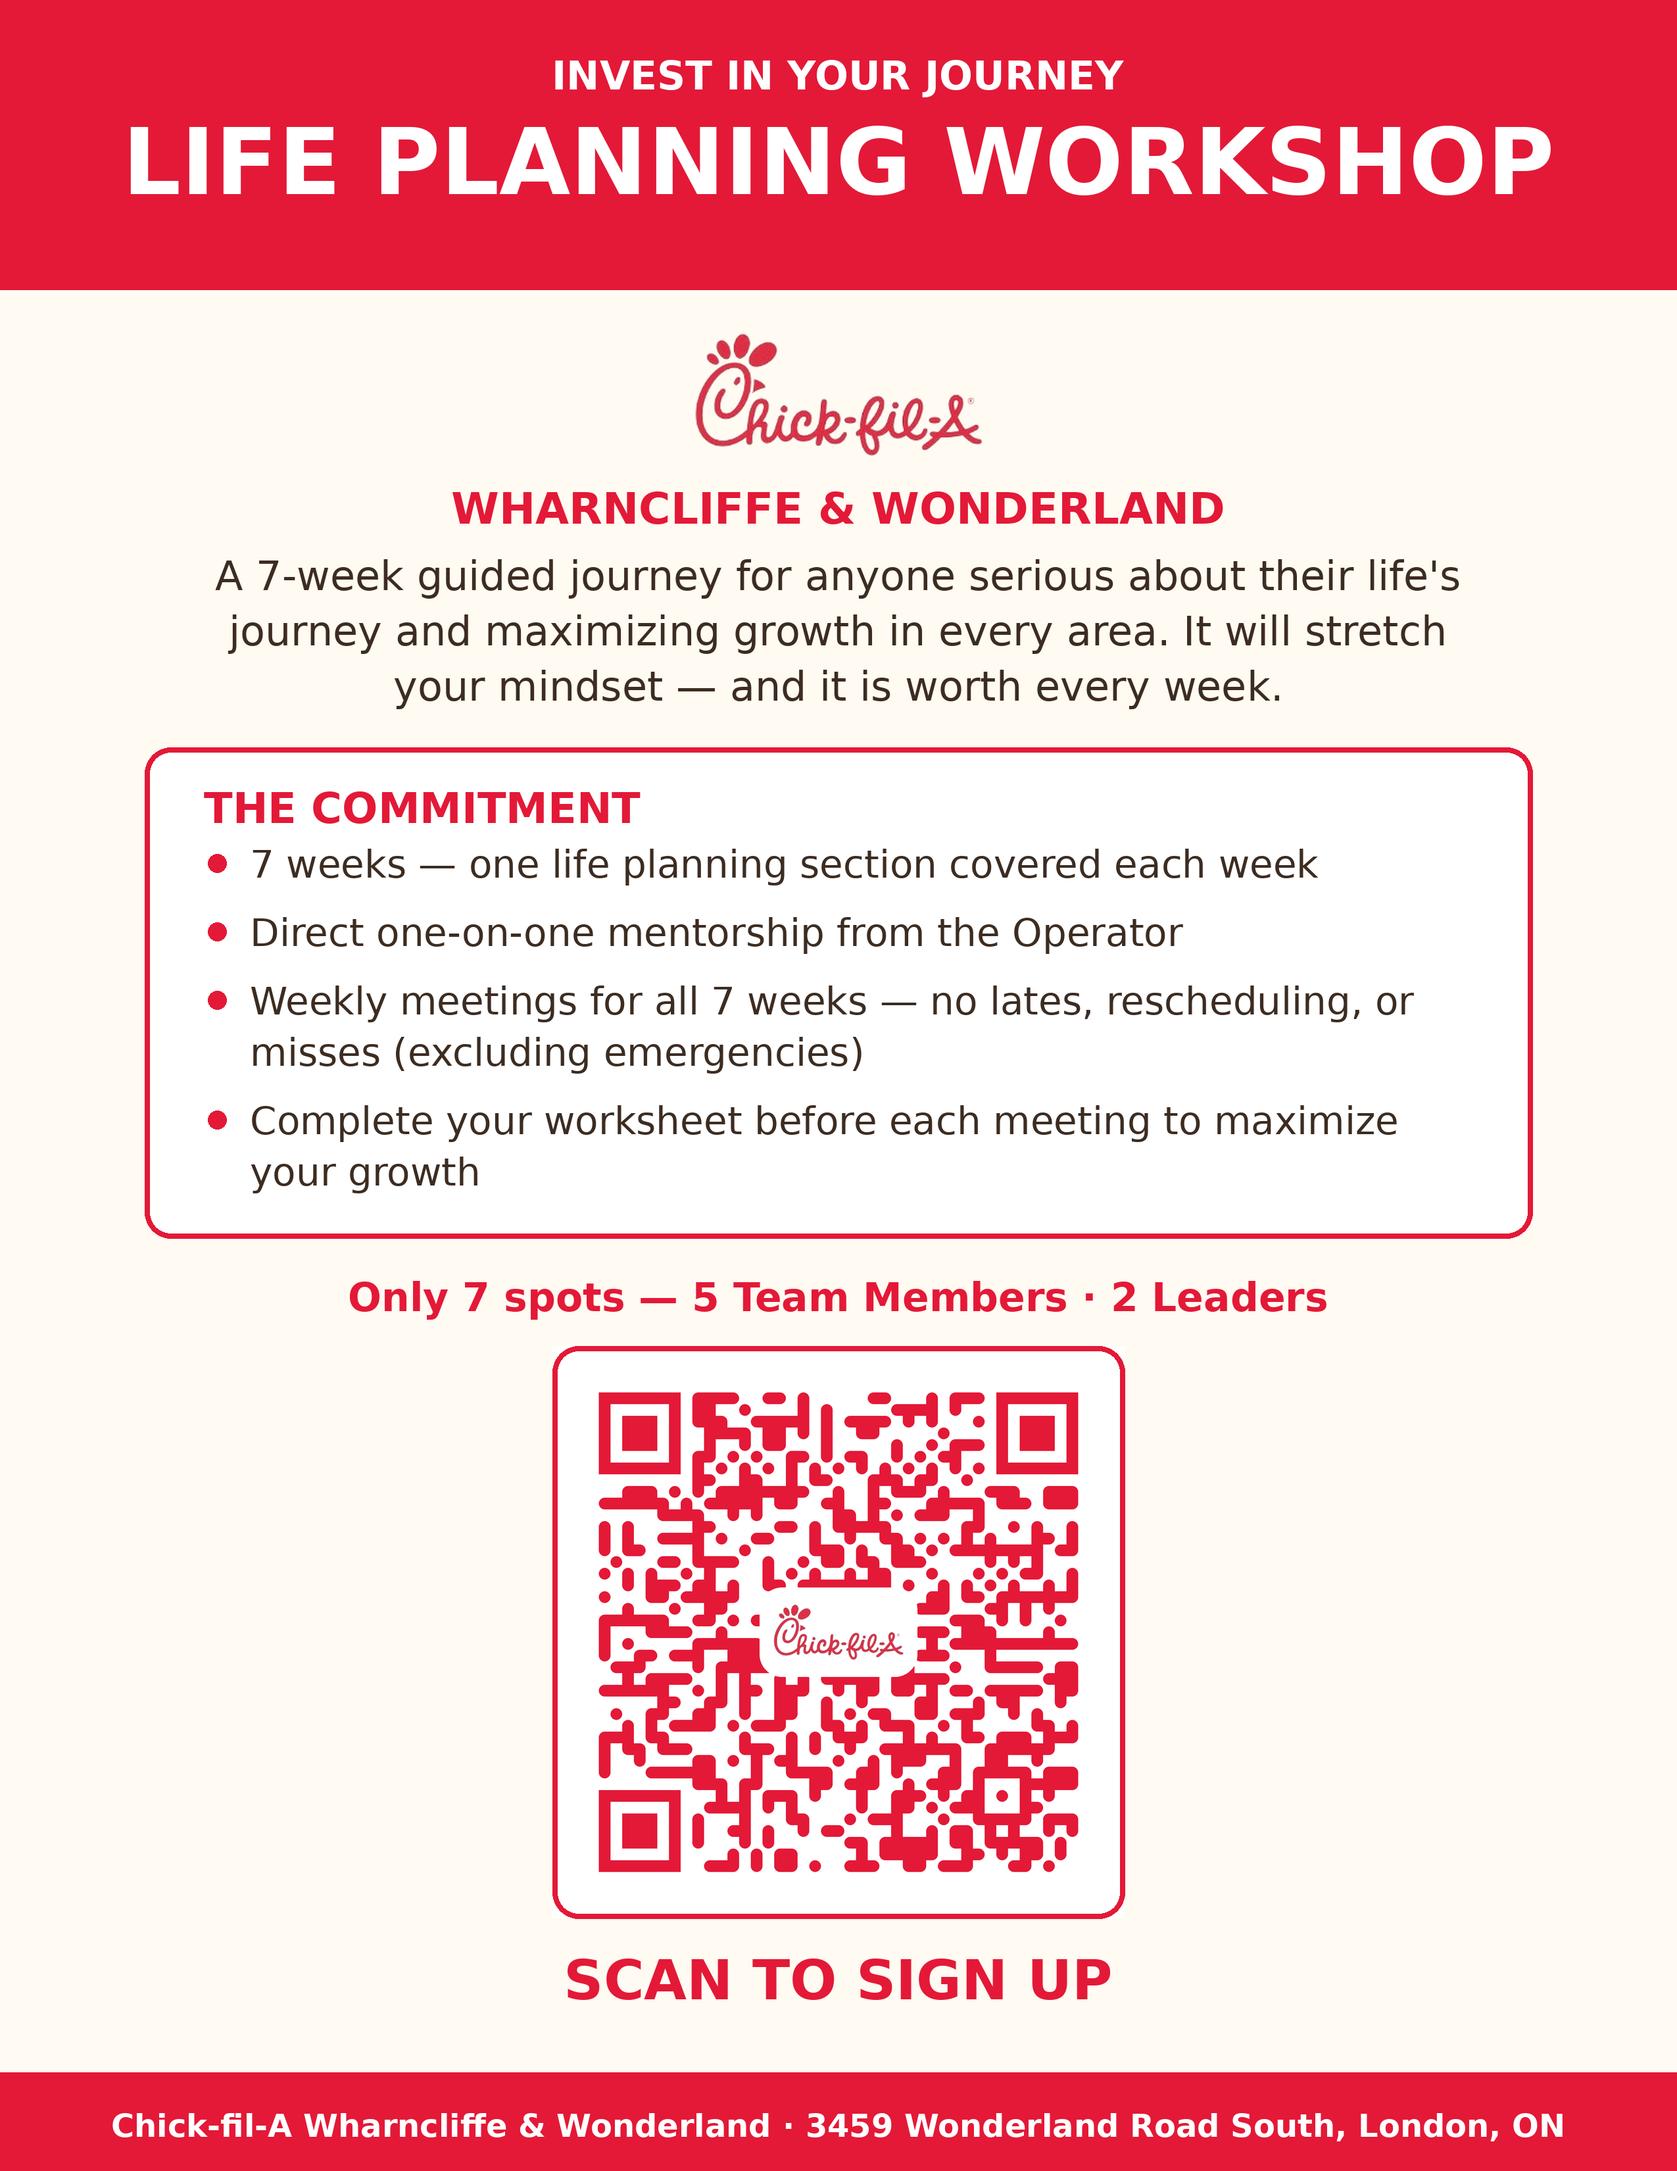
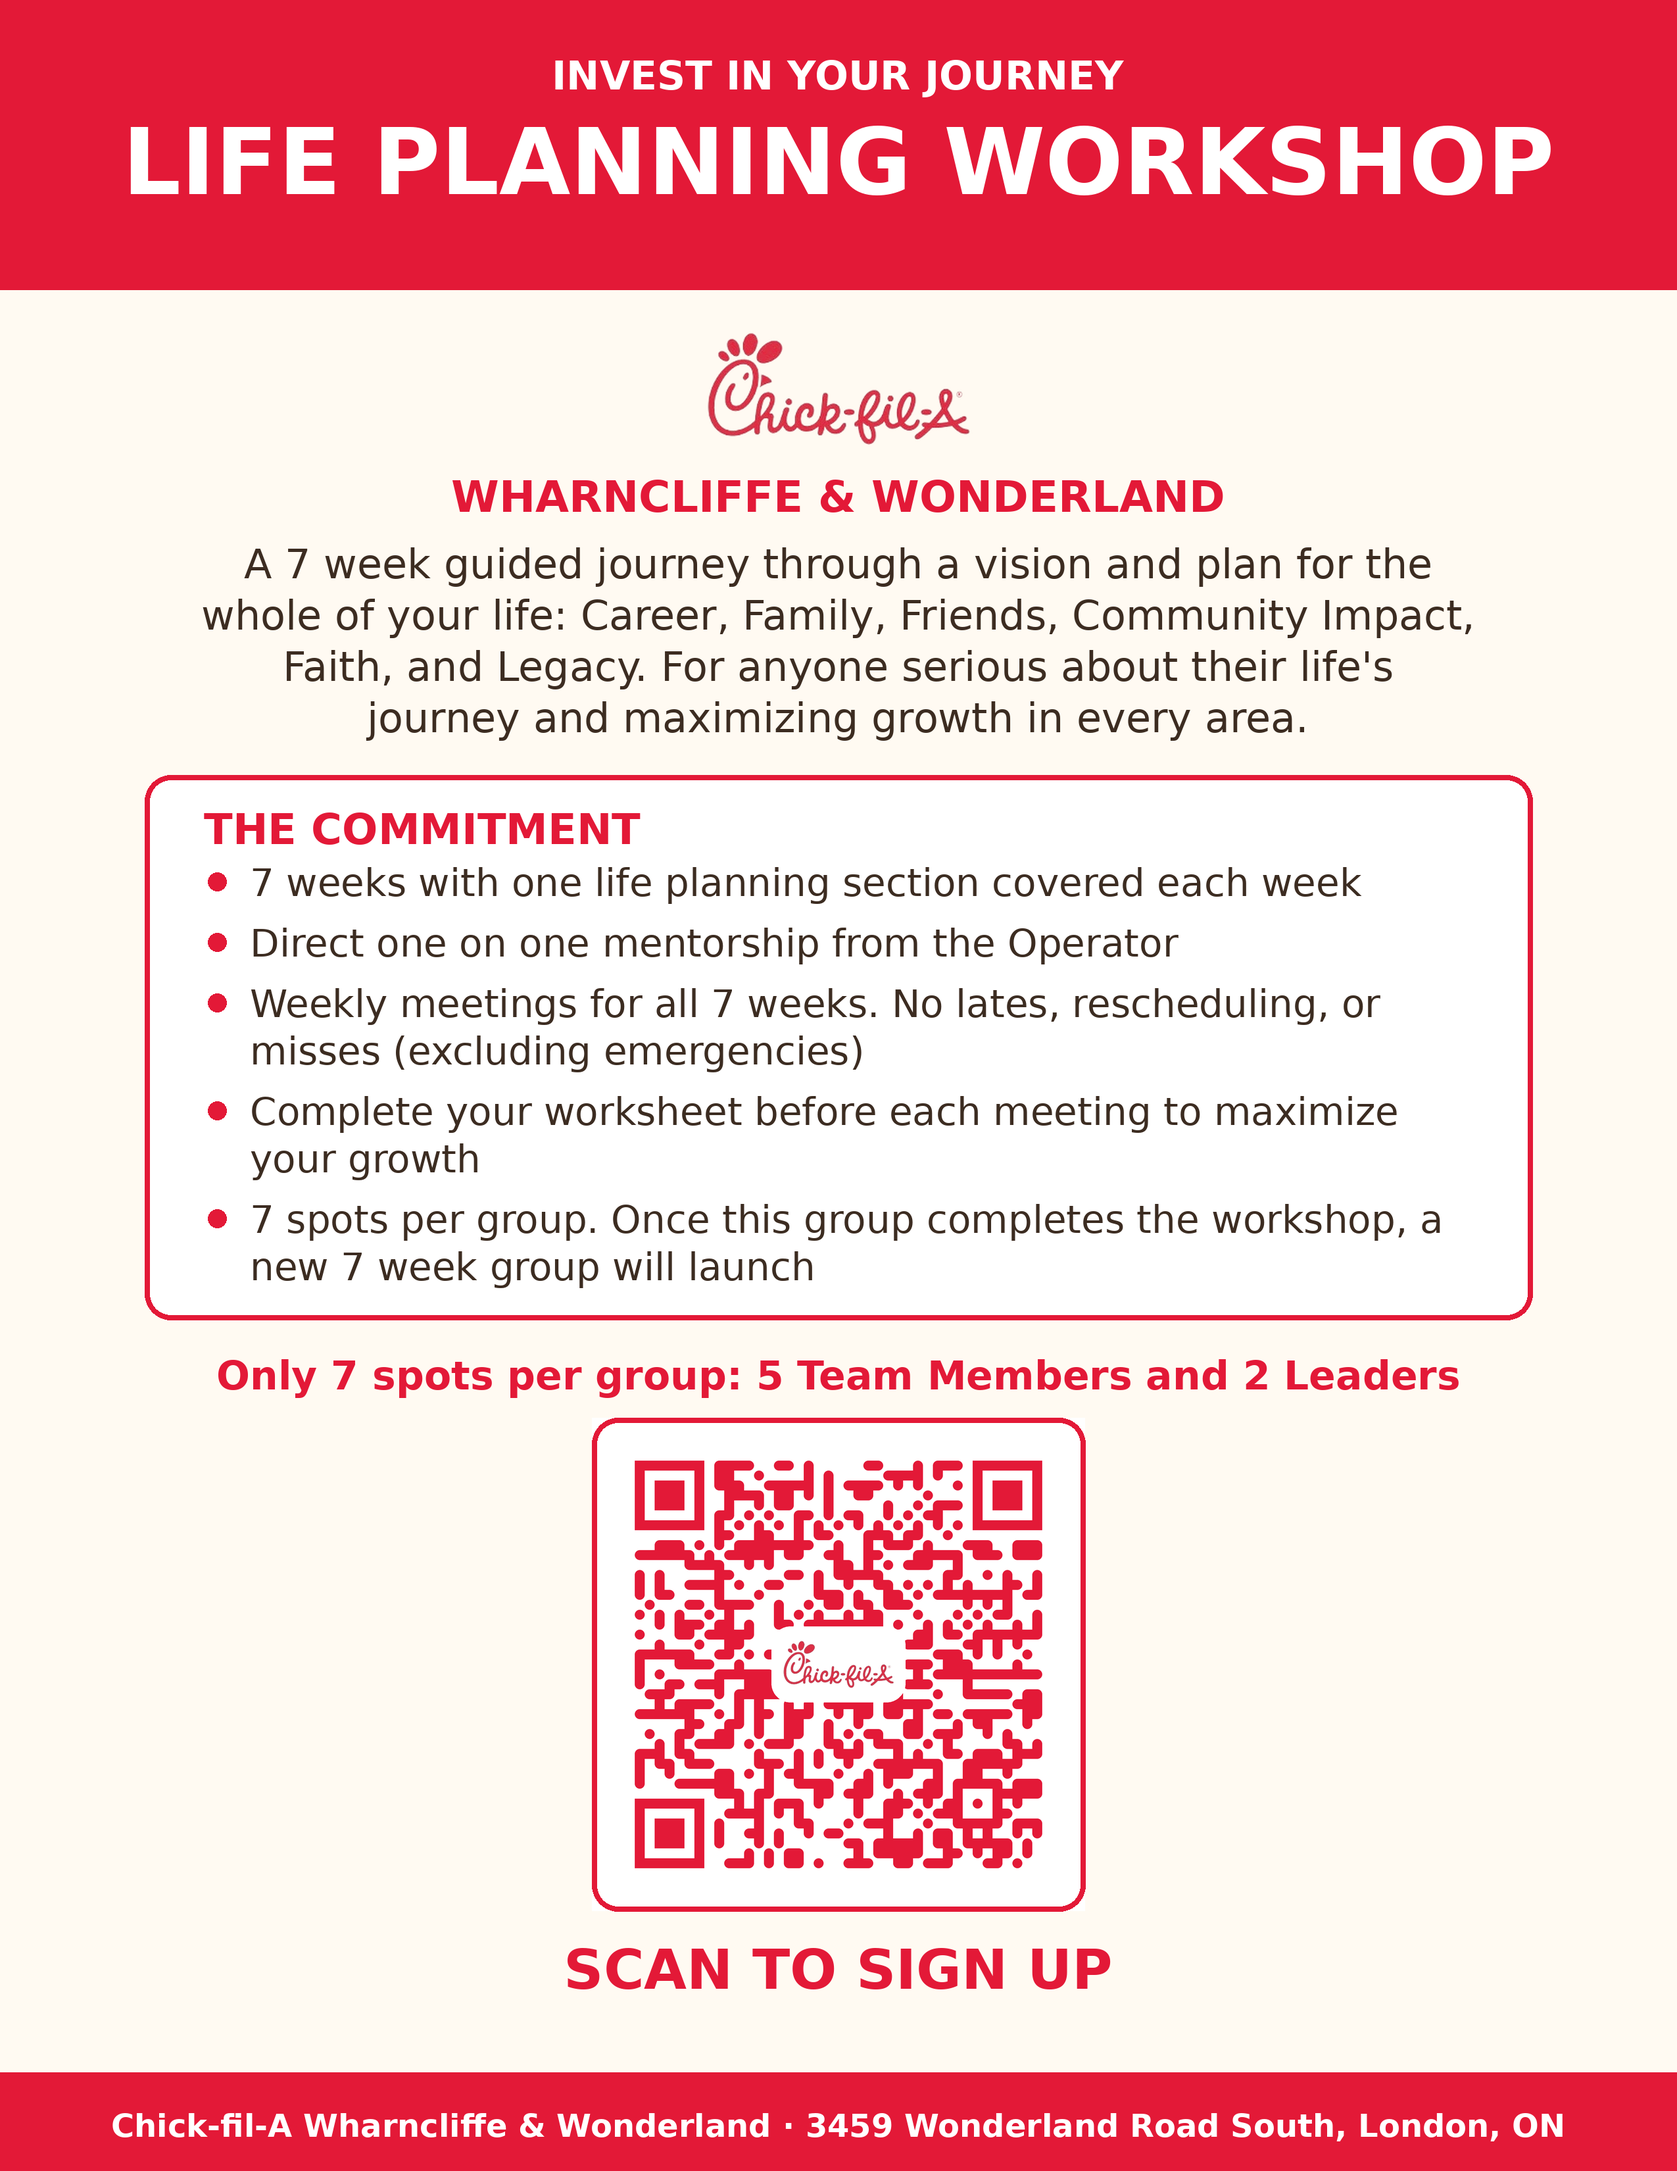
Update life planning poster and sign-up per Operator feedback
- Remove dashes and hyphens from poster and form copy
- Summarize the Life Plan notebook's six areas (Career, Family,
  Friends, Community Impact, Faith, Legacy) on the poster and form
- Note 7 spots per 7 week group, with a new group launching once the
  current group completes the workshop (poster, form, thanks page)
- Replace fallback form questions with the sign-up questions: when they
  would like to start life planning and what they are looking forward
  to most

Claude-Session: https://claude.ai/code/session_01NDkk1L5ynsB1BhhJAR6rE8

diff --git a/templates/life_planning.html b/templates/life_planning.html
@@ -3,7 +3,7 @@
 <head>
 <meta charset="utf-8">
 <meta name="viewport" content="width=device-width, initial-scale=1">
-<title>Life Planning Workshop — Chick-fil-A Wharncliffe &amp; Wonderland</title>
+<title>Life Planning Workshop | Chick-fil-A Wharncliffe &amp; Wonderland</title>
 <style>
   :root {
     --cfa-red: #E31937;
@@ -154,17 +154,19 @@
   </div>
   <div class="wrap">
     <div class="intro">
-      A 7-week life planning workshop with direct mentorship from the Operator,
+      A 7 week life planning workshop with direct mentorship from the Operator,
       designed for anyone who is serious about their life's journey and
-      maximizing growth in every area. Before you sign up, make sure you can
-      commit to the following:
+      maximizing growth in every area. Together we build a vision and plan for
+      the whole of your life: Career, Family, Friends, Community Impact, Faith,
+      and Legacy. Before you sign up, make sure you can commit to the following:
       <ul>
-        <li><strong>7 weeks</strong> — we cover one life planning section per week.</li>
-        <li><strong>Weekly meetings</strong> for the full 7 weeks — no lates, rescheduling, or misses (excluding emergencies).</li>
+        <li><strong>7 weeks:</strong> we cover one life planning section per week.</li>
+        <li><strong>Weekly meetings</strong> for the full 7 weeks. No lates, rescheduling, or misses (excluding emergencies).</li>
         <li><strong>Worksheet completed before each meeting</strong> to maximize growth during your time.</li>
       </ul>
     </div>
-    <div class="spots">Spots are limited: 5 Team Members and 2 Leaders</div>
+    <div class="spots">7 spots per group: 5 Team Members and 2 Leaders.<br>
+      Once this group completes the workshop, a new 7 week group will launch.</div>
 
     {% if error %}<div class="error">{{ error }}</div>{% endif %}
 
@@ -193,13 +195,13 @@
 
       <div class="section-title">Your sign-up</div>
       <div class="field">
-        <label for="why">Why do you want to do life planning, and what do you hope to grow? <span class="req">*</span></label>
-        <textarea id="why" name="why" required>{{ form.why or '' }}</textarea>
+        <label for="start_when">When would you like to start life planning? <span class="req">*</span></label>
+        <div class="hint">Example: as soon as possible, next month, or after the current group finishes.</div>
+        <input type="text" id="start_when" name="start_when" required value="{{ form.start_when or '' }}">
       </div>
       <div class="field">
-        <label for="availability">What days and times generally work best for your weekly meeting? <span class="req">*</span></label>
-        <div class="hint">Example: weekday mornings before 11, or Tuesday/Thursday evenings.</div>
-        <input type="text" id="availability" name="availability" required value="{{ form.availability or '' }}">
+        <label for="looking_forward">What are you looking forward to most about life planning? <span class="req">*</span></label>
+        <textarea id="looking_forward" name="looking_forward" required>{{ form.looking_forward or '' }}</textarea>
       </div>
 
       <div class="section-title">The commitment</div>
@@ -208,8 +210,8 @@
           <input type="checkbox" id="commit" name="commit" value="yes" required
                  {% if form.commit %}checked{% endif %}>
           <label for="commit">
-            I commit to a weekly meeting for the full 7 weeks — no lates,
-            rescheduling, or misses (excluding emergencies) — and to completing
+            I commit to a weekly meeting for the full 7 weeks with no lates,
+            rescheduling, or misses (excluding emergencies), and to completing
             my worksheet before each meeting. <span class="req">*</span>
           </label>
         </div>

diff --git a/templates/life_planning_thanks.html b/templates/life_planning_thanks.html
@@ -3,7 +3,7 @@
 <head>
 <meta charset="utf-8">
 <meta name="viewport" content="width=device-width, initial-scale=1">
-<title>Sign-up received — Chick-fil-A Wharncliffe &amp; Wonderland</title>
+<title>Sign-up received | Chick-fil-A Wharncliffe &amp; Wonderland</title>
 <style>
   :root { --cfa-red: #E31937; --cream: #FFFAF2; --ink: #3C2C21; --soft: #968270; }
   * { box-sizing: border-box; margin: 0; padding: 0; }
@@ -45,9 +45,11 @@
     <h1>You're on the list!</h1>
     <p>
       Your Life Planning Workshop sign-up has been sent directly to the
-      Operator. Spots are limited to 5 Team Members and 2 Leaders, so the
-      Operator will follow up with you personally about next steps and your
-      weekly meeting time. Thank you for investing in your journey.
+      Operator. Each group has 7 spots (5 Team Members and 2 Leaders), and a
+      new 7 week group launches once the current group completes the workshop,
+      so if this group is full you will be in line for the next one. The
+      Operator will follow up with you personally about next steps. Thank you
+      for investing in your journey.
     </p>
     <div class="store">Chick-fil-A Wharncliffe &amp; Wonderland · London, ON</div>
   </div>

diff --git a/scripts/generate_life_planning_poster.py b/scripts/generate_life_planning_poster.py
@@ -115,10 +115,11 @@ def wrap_text(draw, text, font, max_width):
 
 
 COMMITMENT = [
-    "7 weeks — one life planning section covered each week",
-    "Direct one-on-one mentorship from the Operator",
-    "Weekly meetings for all 7 weeks — no lates, rescheduling, or misses (excluding emergencies)",
+    "7 weeks with one life planning section covered each week",
+    "Direct one on one mentorship from the Operator",
+    "Weekly meetings for all 7 weeks. No lates, rescheduling, or misses (excluding emergencies)",
     "Complete your worksheet before each meeting to maximize your growth",
+    "7 spots per group. Once this group completes the workshop, a new 7 week group will launch",
 ]
 
 
@@ -143,19 +144,20 @@ def build_poster(qr_img: Image.Image) -> Image.Image:
     centred_text(d, y, "LIFE PLANNING WORKSHOP", f_title, WHITE, W)
 
     logo = Image.open(LOGO_PATH).convert("RGBA")
-    scale = 460 / logo.width
-    logo_r = logo.resize((460, int(logo.height * scale)), Image.LANCZOS)
+    scale = 420 / logo.width
+    logo_r = logo.resize((420, int(logo.height * scale)), Image.LANCZOS)
     poster.paste(logo_r, ((W - logo_r.width) // 2, banner_h + 55), logo_r)
 
     y = banner_h + 55 + logo_r.height + 30
     y = centred_text(d, y, "WHARNCLIFFE & WONDERLAND", f_store, CFA_RED, W) + 55
 
     for line in (
-        "A 7-week guided journey for anyone serious about their life's",
-        "journey and maximizing growth in every area. It will stretch",
-        "your mindset — and it is worth every week.",
+        "A 7 week guided journey through a vision and plan for the",
+        "whole of your life: Career, Family, Friends, Community Impact,",
+        "Faith, and Legacy. For anyone serious about their life's",
+        "journey and maximizing growth in every area.",
     ):
-        y = centred_text(d, y, line, f_body, INK, W) + 24
+        y = centred_text(d, y, line, f_body, INK, W) + 18
 
     # Commitment card: white rounded panel with the workshop expectations.
     card_x, card_w = 220, W - 440
@@ -163,41 +165,41 @@ def build_poster(qr_img: Image.Image) -> Image.Image:
     text_w = card_w - 180
     y += 45
     card_top = y
-    cy = card_top + 55
+    cy = card_top + 45
     box = d.textbbox((0, 0), "THE COMMITMENT", font=f_card_title)
     title_h = box[3] - box[1]
-    line_h = 78
-    card_h = 55 + title_h + 40
+    line_h = 72
+    card_h = 45 + title_h + 36
     for item in COMMITMENT:
-        card_h += len(wrap_text(d, item, f_bullet, text_w - 70)) * line_h + 26
-    card_h += 30
+        card_h += len(wrap_text(d, item, f_bullet, text_w - 70)) * line_h + 20
+    card_h += 22
     d.rounded_rectangle([card_x, card_top, card_x + card_w, card_top + card_h],
                         radius=40, fill=WHITE, outline=CFA_RED, width=8)
     d.text((text_x, cy), "THE COMMITMENT", font=f_card_title, fill=CFA_RED)
-    cy += title_h + 40
+    cy += title_h + 36
     for item in COMMITMENT:
         d.ellipse([text_x + 6, cy + 18, text_x + 34, cy + 46], fill=CFA_RED)
         for line in wrap_text(d, item, f_bullet, text_w - 70):
             d.text((text_x + 70, cy), line, font=f_bullet, fill=INK)
             cy += line_h
-        cy += 26
+        cy += 20
     y = card_top + card_h
 
-    y = centred_text(d, y + 55, "Only 7 spots — 5 Team Members · 2 Leaders",
+    y = centred_text(d, y + 50, "Only 7 spots per group: 5 Team Members and 2 Leaders",
                      f_spots, CFA_RED, W)
 
-    qr_size = 800
+    qr_size = 680
     qr_r = qr_img.resize((qr_size, qr_size), Image.LANCZOS)
     qr_card = Image.new("RGB", (qr_size + 70, qr_size + 70), WHITE)
     qr_card.paste(qr_r, (35, 35), qr_r)
-    qy = y + 50
+    qy = y + 40
     poster.paste(qr_card, ((W - qr_card.width) // 2, qy))
     d.rounded_rectangle(
         [(W - qr_card.width) // 2, qy,
          (W + qr_card.width) // 2, qy + qr_card.height],
         radius=40, outline=CFA_RED, width=8)
 
-    y = qy + qr_card.height + 45
+    y = qy + qr_card.height + 40
     centred_text(d, y, "SCAN TO SIGN UP", f_scan, CFA_RED, W)
 
     foot_h = 150

diff --git a/app.py b/app.py
@@ -524,7 +524,8 @@ def apply_thanks():
     return render_template("thanks.html")
 
 
-LIFE_PLANNING_REQUIRED_FIELDS = ["name", "email", "role", "why", "availability", "commit"]
+LIFE_PLANNING_REQUIRED_FIELDS = ["name", "email", "role", "start_when",
+                                 "looking_forward", "commit"]
 
 
 def deliver_life_planning_signup(fields: dict) -> bool:
@@ -536,9 +537,9 @@ def deliver_life_planning_signup(fields: dict) -> bool:
         "Email": fields["email"],
         "Phone": fields.get("phone", ""),
         "Role": fields["role"],
-        "Why they want to do life planning": fields["why"],
-        "Weekly meeting availability": fields["availability"],
-        "Committed to the 7-week expectations": "Yes",
+        "When they would like to start": fields["start_when"],
+        "Looking forward to most": fields["looking_forward"],
+        "Committed to the 7 week expectations": "Yes",
     }
 
     url = f"https://formsubmit.co/ajax/{APPLICATION_EMAIL}"
@@ -572,9 +573,9 @@ def life_planning():
     print("=== LIFE PLANNING WORKSHOP SIGN-UP RECEIVED ===")
     print(f"Name: {fields['name']} | Email: {fields['email']} | "
           f"Phone: {fields.get('phone', '')} | Role: {fields['role']}")
-    print(f"Why: {fields['why']}")
-    print(f"Availability: {fields['availability']}")
-    print("Committed to 7-week expectations: Yes")
+    print(f"When they would like to start: {fields['start_when']}")
+    print(f"Looking forward to most: {fields['looking_forward']}")
+    print("Committed to 7 week expectations: Yes")
     print("=== END SIGN-UP ===")
 
     delivered = deliver_life_planning_signup(fields)
